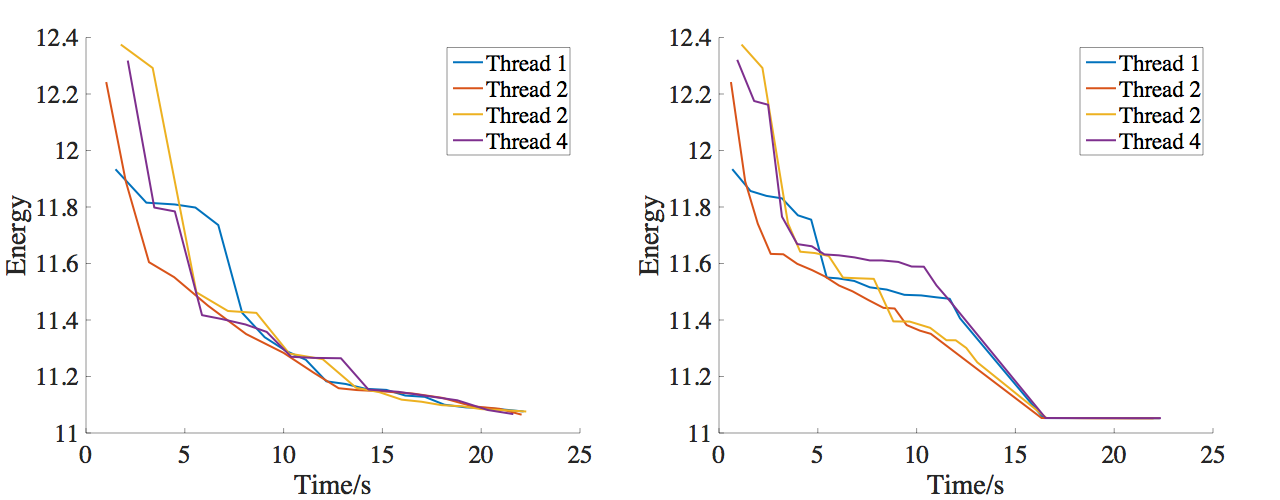
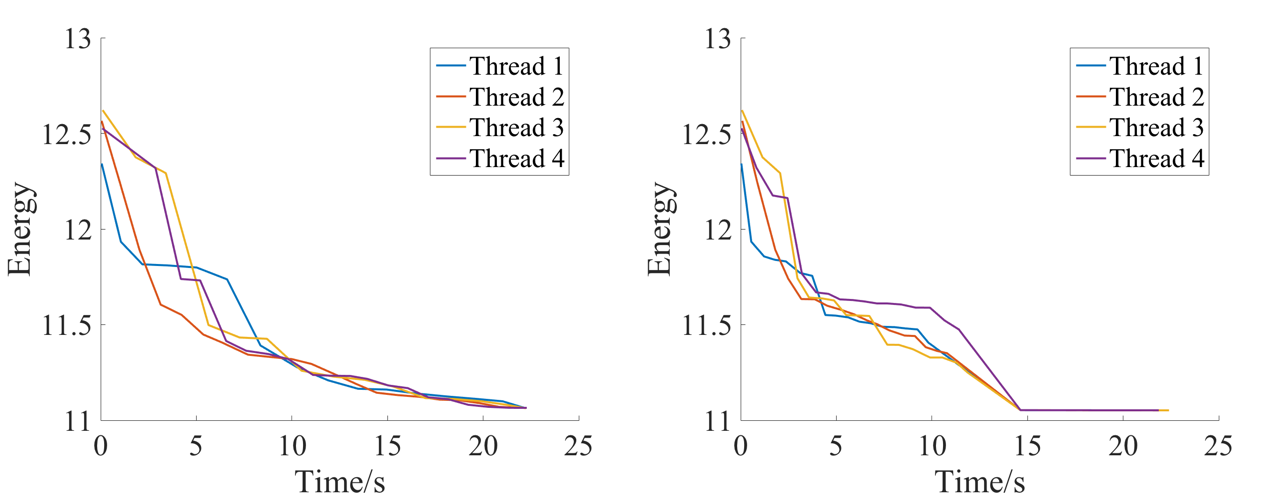
Hang

diff --git a/stereo/code/plotEnergy.m b/stereo/code/plotEnergy.m
@@ -1,17 +1,17 @@
-function [plots_global, plots_thread] = plotEnergy(dataset, nt, max_time)
+function plotEnergy(dataset, nt, max_time)
 %% function [plots_global, plots_thread1, plots_thread2] = plotEnergy(dataset, nt)
 % dataset: path to root of dataset
 % nt: number of threads
 set(0, 'DefaultAxesFontName', 'Times New Roman');
-set(0, 'DefaultAxesFontSize', 28);
+set(0, 'DefaultAxesFontSize', 30);
 set(0, 'DefaultTextFontname', 'Times New Roman');
-set(0, 'DefaultTextFontSize', 28);
+set(0, 'DefaultTextFontSize', 30);
 
-method_name = {'Sequential', 'Swarn_multiway', 'Swarn', 'Victor_multiway', 'Victor', 'Hierarchy'};
-legend_name_global = {'Sequential alpha-expansion', 'SF', 'SF-MF', 'SF-SS', 'Parallel alpha-expansion', 'Hierarchy'};
+method_name = {'Sequential', 'Victor', 'Hierarchy', 'Swarn', 'Victor_multiway', 'Swarn_multiway'};
+legend_name_global = {'Sequential alpha-expansion', 'Parallel alpha-expansion', 'Hierarchy', 'SF-MF(ours)', 'SF-SS(ours)', 'SF(ours)'};
 line_width = 2.0;
 %TODO:
-line_specs = {'','','','','',''};
+line_specs = {'--','--','--','','',''};
 
 %nm: number of methods
 nm = numel(method_name);
@@ -22,11 +22,11 @@ plots_thread = cell(2);
 fig_glb = figure(1);
 hold on;
 for i=1:nm
-    filepath = sprintf('%s/temp/plot_%s_global.txt', dataset, method_name{i});
+    filepath = sprintf('%s/plot_%s_global.txt', dataset, method_name{i});
     disp(filepath);
     glb = dlmread(filepath);
     glb_trun = glb(glb(:,1) < max_time & glb(:,1) > 0.01, :);
-    plots_global{i} = plot(glb_trun(:,1), log(glb_trun(:,2)), 'LineWidth', line_width);
+    plot(glb_trun(:,1), log(glb_trun(:,2)), line_specs{i}, 'LineWidth', line_width);
 end
 legend(legend_name_global);
 xlabel('Time/s');
@@ -42,16 +42,16 @@ end
 
 hold off;
 
-for i=1:2
+for i=2:2:4
     fig_thread = figure(i+1);
     hold on;
-    mid = i*2+1;
+    mid = i;
     for j=1:nt
-        filepath = sprintf('%s/temp/plot_%s_thread%d.txt', dataset, method_name{mid}, j-1);
+        filepath = sprintf('%s/plot_%s_thread%d.txt', dataset, method_name{mid}, j-1);
         disp(filepath);
         thd = dlmread(filepath);
-        thd_trun = thd(thd(:,1) < max_time / 2 & thd(:,1) > 0.01, :);
-        plots_thread{i} = plot(thd_trun(:,1), log(thd_trun(:,2)), 'LineWidth', line_width);
+        thd_trun = thd(thd(:,1) < max_time / 2, :);
+        plot(thd_trun(:,1), log(thd_trun(:,2)), 'LineWidth', line_width);
     end
     legend('Thread 1', 'Thread 2', 'Thread 3', 'Thread 4');
     xlabel('Time/s');
@@ -59,4 +59,18 @@ for i=1:2
     fig_thread.Position = [500,500,640,500];
     hold off;
 end
+
+%draw energy vs. number of threads
+% figure_nthreads = figure(10);
+% hold on;
+% for i=2:2:8
+%     filepath = sprintf('%s/SM-MF-2thread/plot_Swarn_global%d.txt', dataset, i);
+%     disp(filepath);
+%     m = dlmread(filepath);
+%     m_trun = m(m(:,1) < max_time, :);
+%     plot(m_trun(:,1), log(m_trun(:,2)), 'LineWidth', line_width);
+% end
+% legend('2 threads', '4 threads', '6 threads', '8 threads');
+% figure_nthreads.Position=[500,500,640,500];
+% hold off;
 end
